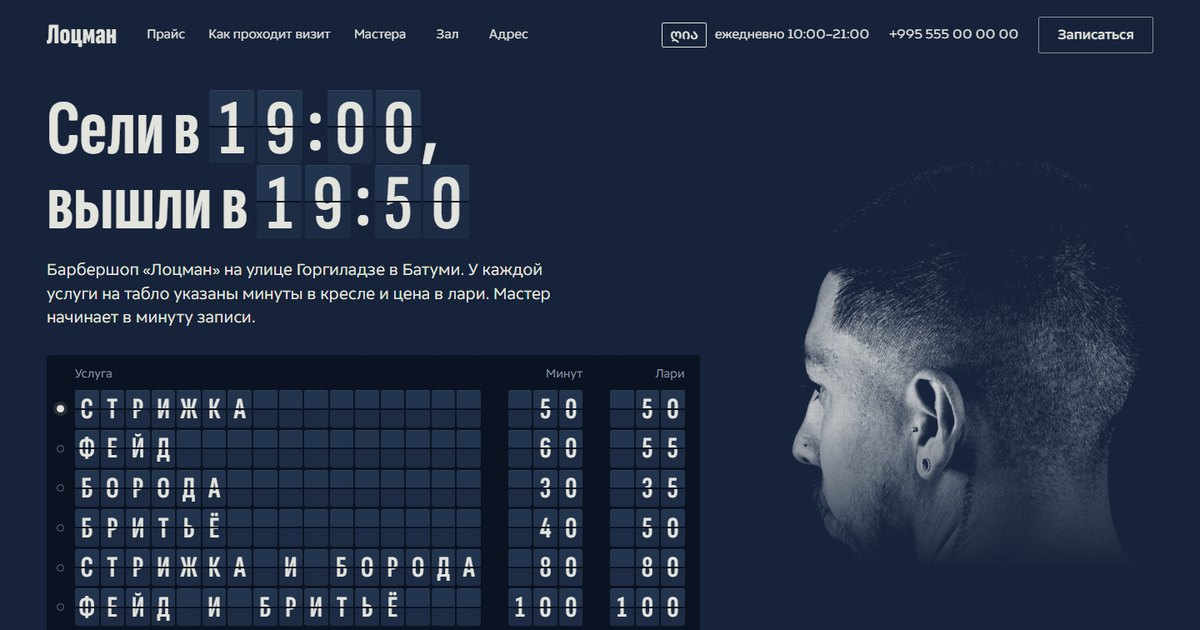
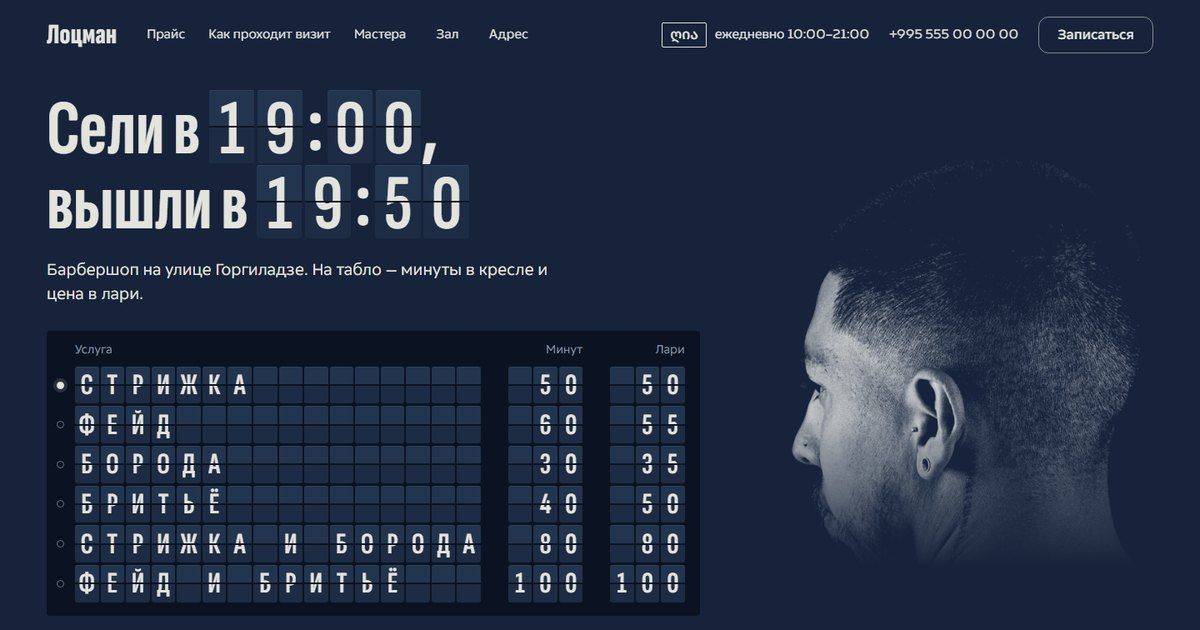
Меньше текста, компактные прайс и мастера, мягкие скругления

Changed region(s): [[0.0308, 0.4222, 0.5858, 1.0]]

diff --git a/index.html b/index.html
@@ -49,7 +49,7 @@
   --gut:clamp(16px,3.9vw,56px);
   --f-disp:"Sofia Sans Extra Condensed","Arial Narrow",sans-serif;
   --f-text:"Finlandica Text",system-ui,sans-serif;
-  --r-flap:3px; --r-ctl:2px;
+  --r-flap:3px; --r-ctl:12px;
 }
 *,*::before,*::after{box-sizing:border-box}
 html{-webkit-text-size-adjust:100%}
@@ -202,9 +202,10 @@ h2 .ln{display:block}
 .axis-scale span:last-child{transform:translateX(-100%)}
 .stills{display:grid;grid-template-columns:repeat(12,minmax(0,1fr));column-gap:24px;align-items:end;margin-top:96px}
 .stills figure{margin:0}
-.st-a{grid-column:1/5}
-.st-b{grid-column:5/8;max-width:260px}
-.stills .stock{grid-column:9/13;color:var(--steel);max-width:26em;margin-bottom:34px}
+/* после того как убрали подпись про фотобанк, пара кадров разъехалась по левому краю —
+   раздвигаем её шире, иначе справа остаётся пустая треть экрана */
+.st-a{grid-column:1/7}
+.st-b{grid-column:7/11;max-width:320px}
 .ph{position:relative}
 .ph img{width:100%;height:100%;object-fit:cover}
 .r45{aspect-ratio:4/5}
@@ -216,13 +217,13 @@ h2 .ln{display:block}
 .m-head{display:grid;grid-template-columns:repeat(12,minmax(0,1fr));column-gap:24px;align-items:end}
 .m-head h2{grid-column:1/7}
 .m-head p{grid-column:7/13;color:var(--graphite);max-width:34em;margin-bottom:6px}
-.m-list{list-style:none;margin:72px 0 0;padding:0;border-bottom:1px solid var(--rule-l)}
-.m{display:grid;grid-template-columns:repeat(12,minmax(0,1fr));column-gap:24px;align-items:baseline;padding:34px 0 38px;border-top:1px solid var(--rule-l)}
-.m-name{grid-column:1/5;font:700 clamp(64px,7.4vw,116px)/.86 var(--f-disp);margin:0;letter-spacing:-.01em}
-.m-lvl{grid-column:5/7;font-weight:600;font-size:16px}
-.m-best{grid-column:7/11;font-size:17px;line-height:1.5;max-width:28em}
-.m-lang{grid-column:11/13;font-size:15px;line-height:1.45}
-.m-k{display:block;font-size:14px;color:var(--graphite);margin-bottom:4px}
+.m-list{list-style:none;margin:36px 0 0;padding:0;border-bottom:1px solid var(--rule-l)}
+.m{display:grid;grid-template-columns:repeat(12,minmax(0,1fr));column-gap:24px;row-gap:2px;
+  align-items:baseline;padding:16px 0 18px;border-top:1px solid var(--rule-l)}
+.m-name{grid-column:1/4;font:700 28px/1.1 var(--f-disp);letter-spacing:-.01em}
+.m-lvl{grid-column:4/6;font-size:15px;color:var(--graphite)}
+.m-best{grid-column:6/11;font-size:16px;line-height:1.4}
+.m-lang{grid-column:11/13;font-size:14px;color:var(--graphite);text-align:right}
 
 /* ---------- зал ---------- */
 .space{display:grid;grid-template-columns:repeat(12,minmax(0,1fr));column-gap:24px;align-items:center}
@@ -343,11 +344,11 @@ html:not(.js) .mbar{display:none}
   .stills .stock{grid-column:1/-1;margin:28px 0 0}
   .m-head h2{grid-column:1/-1}
   .m-head p{grid-column:1/10;margin-top:22px}
-  .m{grid-template-columns:minmax(0,5fr) minmax(0,7fr);row-gap:10px}
-  .m-name{grid-column:1;grid-row:1/4;font-size:clamp(56px,9vw,84px)}
-  .m-lvl{grid-column:2;grid-row:1}
+  .m{grid-template-columns:minmax(0,4fr) minmax(0,8fr);row-gap:4px}
+  .m-name{grid-column:1;grid-row:1/4;font-size:26px}
+  .m-lvl{grid-column:2;grid-row:1;text-align:left}
   .m-best{grid-column:2;grid-row:2}
-  .m-lang{grid-column:2;grid-row:3}
+  .m-lang{grid-column:2;grid-row:3;text-align:left}
   .z-photo{grid-column:1/7;align-self:start}
   .z-text{grid-column:7/13;padding-left:8px}
   .z-lead{font-size:17px}
@@ -442,11 +443,11 @@ html:not(.js) .mbar{display:none}
 
   .m-head p{grid-column:1/-1;font-size:16px;margin-top:18px}
   .m-list{margin-top:40px}
-  .m{display:block;padding:26px 0 30px}
-  .m-name{font-size:62px}
-  .m-lvl{margin-top:12px}
-  .m-best{margin-top:12px;font-size:16px}
-  .m-lang{margin-top:12px}
+  .m{display:grid;grid-template-columns:minmax(0,1fr) auto;row-gap:3px;padding:14px 0 16px}
+  .m-name{grid-column:1;grid-row:1;font-size:24px}
+  .m-lvl{grid-column:2;grid-row:1;text-align:right;align-self:baseline}
+  .m-best{grid-column:1/-1;grid-row:2;font-size:15px}
+  .m-lang{grid-column:1/-1;grid-row:3;text-align:left;font-size:13px}
 
   .space{display:block}
   .z-photo{margin:-72px -16px 0}
@@ -513,7 +514,7 @@ html:not(.js) .mbar{display:none}
     <a href="#adres">Адрес</a>
   </nav>
   <div class="top-right">
-    <span class="plate plate-top"><b lang="ka">ღია</b><span class="vh">(по-грузински «открыто»)</span> ежедневно 10:00–21:00</span>
+    <span class="plate plate-top"><b lang="ka">ღია</b> ежедневно 10:00–21:00</span>
     <a class="tel" href="tel:+995555000000">+995 555 00 00 00</a>
     <a class="btn btn-line" href="#zapis">Записаться</a>
   </div>
@@ -539,7 +540,7 @@ html:not(.js) .mbar{display:none}
         <span class="ln">Сели в <span class="clock" data-v="19:00"><span class="txt">19:00</span></span>,</span>
         <span class="ln">вышли в <span class="clock" data-v="19:50"><span class="txt">19:50</span></span></span>
       </h1>
-      <p class="lead">Барбершоп «Лоцман» на улице Горгиладзе в Батуми. У каждой услуги на табло указаны минуты в кресле и цена в лари. Мастер начинает в минуту записи.</p>
+      <p class="lead">Барбершоп на улице Горгиладзе. На табло — минуты в кресле и цена в лари.</p>
 
       <div class="board" id="tablo">
         <div class="board-in">
@@ -577,9 +578,9 @@ html:not(.js) .mbar{display:none}
             <button type="button" aria-pressed="false" data-level="2">Старший барбер</button>
           </div>
           <a class="btn btn-fill cta" id="cta" href="#zapis">Записаться на стрижку</a>
-          <span class="plate plate-foot"><b lang="ka">ღია</b><span class="vh">(по-грузински «открыто»)</span> ежедневно 10:00–21:00</span>
+          <span class="plate plate-foot"><b lang="ka">ღია</b> ежедневно 10:00–21:00</span>
         </div>
-        <p class="hint"><span class="hint-d">Нажмите на строку: время выхода в заголовке и кнопка записи пересчитаются.</span><span class="hint-m">Нажмите на строку: время выхода в заголовке и панель внизу пересчитаются.</span></p>
+        <p class="hint"><span class="hint-d">Нажмите на строку — время выхода пересчитается.</span><span class="hint-m">Нажмите на строку — время выхода пересчитается.</span></p>
         <p class="vh" id="live" aria-live="polite"></p>
       </div>
     </div>
@@ -589,9 +590,7 @@ html:not(.js) .mbar{display:none}
     <div class="g12">
       <div class="price-side">
         <h2 id="price-h">Весь прайс</h2>
-        <p>Цена зависит от уровня мастера. Длина и густота волос на неё не влияют.</p>
-        <p>Минуты считаются от кресла до выхода: мытьё и укладка уже внутри.</p>
-        <p>Оплата картой или наличными в лари.</p>
+        <p>Минуты — от кресла до выхода, мытьё и укладка уже внутри.</p>
       </div>
       <div class="price-main">
         <table class="plist">
@@ -602,30 +601,29 @@ html:not(.js) .mbar{display:none}
           </thead>
           <tbody>
             <tr class="grp"><th scope="rowgroup" colspan="4">Стрижки</th></tr>
-            <tr><th scope="row"><span class="s-n">Стрижка</span><span class="s-d">Машинка и ножницы, мытьё, укладка</span><span class="s-m">50 минут</span></th><td class="c-min">50</td><td>50</td><td>60</td></tr>
-            <tr><th scope="row"><span class="s-n">Фейд</span><span class="s-d">Переход от 0,5 мм без ступенек, верх ножницами</span><span class="s-m">60 минут</span></th><td class="c-min">60</td><td>55</td><td>65</td></tr>
-            <tr><th scope="row"><span class="s-n">Стрижка под насадку</span><span class="s-d">Одна длина машинкой, окантовка</span><span class="s-m">30 минут</span></th><td class="c-min">30</td><td>30</td><td>35</td></tr>
-            <tr><th scope="row"><span class="s-n">Детская стрижка</span><span class="s-d">До 12 лет</span><span class="s-m">40 минут</span></th><td class="c-min">40</td><td>35</td><td>40</td></tr>
-            <tr><th scope="row"><span class="s-n">Отец и сын</span><span class="s-d">Две стрижки подряд у одного мастера</span><span class="s-m">90 минут</span></th><td class="c-min">90</td><td>70</td><td>85</td></tr>
+            <tr><th scope="row"><span class="s-n">Стрижка</span><span class="s-m">50 минут</span></th><td class="c-min">50</td><td>50</td><td>60</td></tr>
+            <tr><th scope="row"><span class="s-n">Фейд</span><span class="s-m">60 минут</span></th><td class="c-min">60</td><td>55</td><td>65</td></tr>
+            <tr><th scope="row"><span class="s-n">Стрижка под насадку</span><span class="s-m">30 минут</span></th><td class="c-min">30</td><td>30</td><td>35</td></tr>
+            <tr><th scope="row"><span class="s-n">Детская стрижка</span><span class="s-m">40 минут</span></th><td class="c-min">40</td><td>35</td><td>40</td></tr>
+            <tr><th scope="row"><span class="s-n">Отец и сын</span><span class="s-m">90 минут</span></th><td class="c-min">90</td><td>70</td><td>85</td></tr>
           </tbody>
           <tbody>
             <tr class="grp"><th scope="rowgroup" colspan="4">Борода и бритьё</th></tr>
-            <tr><th scope="row"><span class="s-n">Борода</span><span class="s-d">Форма по линии челюсти, окантовка бритвой, масло</span><span class="s-m">30 минут</span></th><td class="c-min">30</td><td>35</td><td>45</td></tr>
-            <tr><th scope="row"><span class="s-n">Бритьё</span><span class="s-d">Опасная бритва, горячее и холодное полотенце</span><span class="s-m">40 минут</span></th><td class="c-min">40</td><td>50</td><td>60</td></tr>
+            <tr><th scope="row"><span class="s-n">Борода</span><span class="s-m">30 минут</span></th><td class="c-min">30</td><td>35</td><td>45</td></tr>
+            <tr><th scope="row"><span class="s-n">Бритьё</span><span class="s-m">40 минут</span></th><td class="c-min">40</td><td>50</td><td>60</td></tr>
           </tbody>
           <tbody>
             <tr class="grp"><th scope="rowgroup" colspan="4">Седина</th></tr>
-            <tr><th scope="row"><span class="s-n">Камуфляж седины, голова</span><span class="s-d">Часть седины остаётся, цвет не выглядит крашеным</span><span class="s-m">40 минут</span></th><td class="c-min">40</td><td>45</td><td>55</td></tr>
-            <tr><th scope="row"><span class="s-n">Камуфляж седины, борода</span><span class="s-d">Тон подбирается к щетине, а не к волосам на голове</span><span class="s-m">30 минут</span></th><td class="c-min">30</td><td>35</td><td>45</td></tr>
+            <tr><th scope="row"><span class="s-n">Камуфляж седины, голова</span><span class="s-m">40 минут</span></th><td class="c-min">40</td><td>45</td><td>55</td></tr>
+            <tr><th scope="row"><span class="s-n">Камуфляж седины, борода</span><span class="s-m">30 минут</span></th><td class="c-min">30</td><td>35</td><td>45</td></tr>
           </tbody>
           <tbody>
             <tr class="grp"><th scope="rowgroup" colspan="4">Вместе</th></tr>
-            <tr><th scope="row"><span class="s-n">Стрижка и борода</span><span class="s-d">Одна запись, один мастер</span><span class="s-m">80 минут</span></th><td class="c-min">80</td><td>80</td><td>95</td></tr>
-            <tr><th scope="row"><span class="s-n">Фейд и бритьё</span><span class="s-d">Самая длинная запись в прайсе</span><span class="s-m">100 минут</span></th><td class="c-min">100</td><td>100</td><td>115</td></tr>
+            <tr><th scope="row"><span class="s-n">Стрижка и борода</span><span class="s-m">80 минут</span></th><td class="c-min">80</td><td>80</td><td>95</td></tr>
+            <tr><th scope="row"><span class="s-n">Фейд и бритьё</span><span class="s-m">100 минут</span></th><td class="c-min">100</td><td>100</td><td>115</td></tr>
           </tbody>
         </table>
         <div class="price-foot">
-          <p>Старший барбер берёт сложные случаи: фейд от 0,5 мм, густую бороду, седину. Поэтому у него на 10–15 лари дороже.</p>
           <a class="btn btn-dark" href="#zapis">Записаться</a>
         </div>
       </div>
@@ -635,15 +633,15 @@ html:not(.js) .mbar{display:none}
   <section class="visit sec" id="vizit" aria-labelledby="visit-h">
     <div class="visit-head">
       <h2 id="visit-h"><span class="ln">Стрижка на 19:00</span> <span class="ln">по минутам</span></h2>
-      <p>От двери до выхода 55 минут, в кресле ровно 50. У других услуг порядок тот же, меняется только средний шаг.</p>
+      <p>От двери до выхода 55 минут, в кресле ровно 50.</p>
     </div>
 
     <ol class="gantt">
-      <li style="--s:0;--e:9.09"><span class="g-t"><time>18:55</time></span><span class="g-n">Приходите за пять минут</span><span class="g-d">Куртку на вешалку, на стойке вода и чай. Если опаздываете больше чем на 10 минут, напишите: мастер сократит укладку или перенесёт запись.</span><span class="g-track" aria-hidden="true"><span class="g-bar"></span></span></li>
-      <li style="--s:9.09;--e:18.18"><span class="g-t"><time>19:00</time></span><span class="g-n">Разговор</span><span class="g-d">Как носите волосы, где пробор, что не получилось в прошлый раз. Длину договариваетесь в миллиметрах насадки, можно показать фото.</span><span class="g-track" aria-hidden="true"><span class="g-bar"></span></span></li>
-      <li style="--s:18.18;--e:78.18"><span class="g-t"><time>19:05</time></span><span class="g-n">Стрижка</span><span class="g-d">Бока машинкой, верх ножницами, линия роста шаветкой. В конце мастер показывает затылок во втором зеркале.</span><span class="g-track" aria-hidden="true"><span class="g-bar"></span></span></li>
-      <li style="--s:78.18;--e:96.36"><span class="g-t"><time>19:38</time></span><span class="g-n">Мытьё и укладка</span><span class="g-d">Смываем состриженные волоски, сушим феном. Мастер показывает, сколько средства брать дома, чтобы форма держалась в батумскую влажность.</span><span class="g-track" aria-hidden="true"><span class="g-bar"></span></span></li>
-      <li style="--s:96.36;--e:100"><span class="g-t"><time>19:48</time></span><span class="g-n">Оплата</span><span class="g-d">Картой или наличными в лари. Следующую запись можно поставить сразу.</span><span class="g-track" aria-hidden="true"><span class="g-bar"></span></span></li>
+      <li style="--s:0;--e:9.09"><span class="g-t"><time>18:55</time></span><span class="g-n">Приходите за пять минут</span><span class="g-d">Куртка на вешалку, вода и чай на стойке.</span><span class="g-track" aria-hidden="true"><span class="g-bar"></span></span></li>
+      <li style="--s:9.09;--e:18.18"><span class="g-t"><time>19:00</time></span><span class="g-n">Разговор</span><span class="g-d">Длину договариваете в миллиметрах насадки. Можно показать фото.</span><span class="g-track" aria-hidden="true"><span class="g-bar"></span></span></li>
+      <li style="--s:18.18;--e:78.18"><span class="g-t"><time>19:05</time></span><span class="g-n">Стрижка</span><span class="g-d">Бока машинкой, верх ножницами, линия роста шаветкой.</span><span class="g-track" aria-hidden="true"><span class="g-bar"></span></span></li>
+      <li style="--s:78.18;--e:96.36"><span class="g-t"><time>19:38</time></span><span class="g-n">Мытьё и укладка</span><span class="g-d">Смываем волоски, сушим феном, показываем укладку.</span><span class="g-track" aria-hidden="true"><span class="g-bar"></span></span></li>
+      <li style="--s:96.36;--e:100"><span class="g-t"><time>19:48</time></span><span class="g-n">Оплата</span><span class="g-d">Картой или наличными. Следующую запись ставим сразу.</span><span class="g-track" aria-hidden="true"><span class="g-bar"></span></span></li>
     </ol>
     <div class="axis" aria-hidden="true"><span class="axis-scale"><span style="left:0">18:55</span><span style="left:27.27%">19:10</span><span style="left:54.55%">19:25</span><span style="left:100%">19:50, выход</span></span></div>
 
@@ -654,7 +652,6 @@ html:not(.js) .mbar{display:none}
           src="https://images.unsplash.com/photo-1657105052497-f996284ffff8?rect=0,1120,4480,5600&amp;w=900&amp;q=70&amp;auto=format"
           srcset="https://images.unsplash.com/photo-1657105052497-f996284ffff8?rect=0,1120,4480,5600&amp;w=500&amp;q=70&amp;auto=format 500w, https://images.unsplash.com/photo-1657105052497-f996284ffff8?rect=0,1120,4480,5600&amp;w=900&amp;q=70&amp;auto=format 900w"
           sizes="(max-width: 600px) 46vw, (max-width: 1023px) 40vw, 30vw"></div>
-        <figcaption><b>19:05–19:38</b>Верх ножницами после машинки</figcaption>
       </figure>
       <figure class="st-b">
         <div class="ph duo r45 p11"><img loading="lazy" decoding="async" width="700" height="1022"
@@ -662,42 +659,20 @@ html:not(.js) .mbar{display:none}
           src="https://images.pexels.com/photos/10775082/pexels-photo-10775082.jpeg?auto=compress&amp;cs=tinysrgb&amp;w=700"
           srcset="https://images.pexels.com/photos/10775082/pexels-photo-10775082.jpeg?auto=compress&amp;cs=tinysrgb&amp;w=400 400w, https://images.pexels.com/photos/10775082/pexels-photo-10775082.jpeg?auto=compress&amp;cs=tinysrgb&amp;w=700 700w"
           sizes="(max-width: 600px) 46vw, (max-width: 1023px) 32vw, 260px"></div>
-        <figcaption><b>19:30</b>Линия роста шаветкой</figcaption>
       </figure>
-      <p class="stock">Кадры из фотобанков подобраны под концепт. На сайте вашего барбершопа здесь будет своя съёмка.</p>
     </div>
   </section>
 
   <section class="paper sec" id="mastera" aria-labelledby="m-h">
     <div class="m-head">
       <h2 id="m-h">Мастера</h2>
-      <p>Старшие барберы берут сложные случаи, барберы ведут повседневные стрижки. Если не знаете, к кому записаться, опишите в заявке, что хотите, и администратор подберёт мастера.</p>
+      <p>Не знаете, к кому записаться, — напишите в заявке, что хотите.</p>
     </div>
     <ul class="m-list">
-      <li class="m">
-        <h3 class="m-name">Давид</h3>
-        <p class="m-lvl">Старший барбер</p>
-        <p class="m-best"><span class="m-k">Лучше всего</span>Фейды от 0,5 мм и жёсткие кудрявые волосы, которые топорщатся после обычной машинки.</p>
-        <p class="m-lang"><span class="m-k">Языки</span>Русский, грузинский, английский</p>
-      </li>
-      <li class="m">
-        <h3 class="m-name">Лаша</h3>
-        <p class="m-lvl">Старший барбер</p>
-        <p class="m-best"><span class="m-k">Лучше всего</span>Опасная бритва и густые бороды: форма по линии челюсти, горячие полотенца, седина в бороде.</p>
-        <p class="m-lang"><span class="m-k">Языки</span>Грузинский, русский, турецкий</p>
-      </li>
-      <li class="m">
-        <h3 class="m-name">Артём</h3>
-        <p class="m-lvl">Барбер</p>
-        <p class="m-best"><span class="m-k">Лучше всего</span>Классика ножницами и удлинённый верх. Стрижёт детей, в том числе тех, кто пришёл впервые и боится машинки.</p>
-        <p class="m-lang"><span class="m-k">Языки</span>Русский, английский</p>
-      </li>
-      <li class="m">
-        <h3 class="m-name">Нико</h3>
-        <p class="m-lvl">Барбер</p>
-        <p class="m-best"><span class="m-k">Лучше всего</span>Короткие стрижки под насадку и камуфляж седины на голове.</p>
-        <p class="m-lang"><span class="m-k">Языки</span>Грузинский, русский, английский</p>
-      </li>
+      <li class="m"><span class="m-name">Давид</span><span class="m-lvl">Старший барбер</span><span class="m-best">Фейды от 0,5 мм, жёсткие кудрявые волосы</span><span class="m-lang">рус · груз · англ</span></li>
+      <li class="m"><span class="m-name">Лаша</span><span class="m-lvl">Старший барбер</span><span class="m-best">Опасная бритва, густые бороды, седина</span><span class="m-lang">груз · рус · тур</span></li>
+      <li class="m"><span class="m-name">Артём</span><span class="m-lvl">Барбер</span><span class="m-best">Классика ножницами, удлинённый верх, дети</span><span class="m-lang">рус · англ</span></li>
+      <li class="m"><span class="m-name">Нико</span><span class="m-lvl">Барбер</span><span class="m-best">Короткие стрижки под насадку, камуфляж седины</span><span class="m-lang">груз · рус · англ</span></li>
     </ul>
   </section>
 
@@ -711,14 +686,13 @@ html:not(.js) .mbar{display:none}
     </figure>
     <div class="z-text">
       <h2 id="z-h">Зал</h2>
-      <p class="z-lead">Четыре кресла у высоких окон. Мойка стоит отдельно, за перегородкой, поэтому фен у соседнего кресла не мешает разговору с мастером.</p>
+      <p class="z-lead">Четыре кресла у высоких окон. Мойка за перегородкой — фен не мешает разговору.</p>
       <dl class="z-facts">
-        <div><dt>Воздух</dt><dd>Кондиционер и осушитель. В Батуми влажно, а укладку проверяем в сухом зале, чтобы знать, как она поведёт себя на улице.</dd></div>
-        <div><dt>Бритьё</dt><dd>Кожу распариваем паром и горячим полотенцем. Лезвие в шаветке меняем при вас перед каждым клиентом.</dd></div>
-        <div><dt>Пока ждёте</dt><dd>Вода без газа и чёрный чай из Чакви.</dd></div>
-        <div><dt>С ребёнком</dt><dd>Подушка на кресло для детей от трёх лет и тихая машинка.</dd></div>
+        <div><dt>Воздух</dt><dd>Кондиционер и осушитель: укладку проверяем в сухом зале.</dd></div>
+        <div><dt>Бритьё</dt><dd>Пар и горячее полотенце. Лезвие меняем при вас.</dd></div>
+        <div><dt>Пока ждёте</dt><dd>Вода и чай из Чакви.</dd></div>
+        <div><dt>С ребёнком</dt><dd>Подушка на кресло и тихая машинка.</dd></div>
       </dl>
-      <p class="stock">Фото из фотобанка, подобрано под концепт.</p>
     </div>
   </section>
 
@@ -727,7 +701,7 @@ html:not(.js) .mbar{display:none}
       <div class="b-side">
         <h2 id="b-h">Запись</h2>
         <p class="b-sel">Вы выбрали: <b id="bSel">стрижка у барбера, 50 минут, 50 лари</b></p>
-        <p class="b-note">Оставьте имя и телефон. Администратор перезвонит или напишет в WhatsApp и подтвердит время. Заявки после 21:00 разбираем утром.</p>
+        <p class="b-note">Оставьте имя и телефон — подтвердим время в WhatsApp.</p>
         <p class="b-tel">Или позвоните: <a href="tel:+995555000000">+995 555 00 00 00</a></p>
       </div>
 
@@ -771,7 +745,7 @@ html:not(.js) .mbar{display:none}
         </div>
         <noscript><p class="fld-wide">Без JavaScript форма не отправляется. Позвоните: +995 555 00 00 00.</p></noscript>
         <div class="b-done" id="bDone" tabindex="-1" role="status" hidden>
-          <p><strong>Это демо-сайт.</strong> Хотите такой же для своего барбершопа? <a href="https://t.me/open_sites">→ t.me/open_sites</a></p>
+          <p><strong>Заявка принята.</strong> Администратор подтвердит время в WhatsApp.</p>
         </div>
       </form>
     </div>
@@ -793,13 +767,13 @@ html:not(.js) .mbar{display:none}
     </figure>
     <div class="w-in">
       <div class="w-main">
-        <p class="w-sign"><b lang="ka">ლოცმანი</b><span>«Лоцман» по-грузински, так написано над входом</span></p>
+        <p class="w-sign"><b lang="ka">ლოცმანი</b></p>
         <h2 id="w-h"><span class="ln">Улица Горгиладзе,</span> <span class="ln">Батуми</span></h2>
       </div>
       <div class="w-side">
         <dl class="w-dl">
           <div><dt>Адрес</dt><dd>ул. Горгиладзе, Батуми</dd></div>
-          <div><dt>Часы</dt><dd>Ежедневно 10:00–21:00. Последняя стрижка начинается в 20:10.</dd></div>
+          <div><dt>Часы</dt><dd>Ежедневно 10:00–21:00</dd></div>
           <div><dt>Телефон</dt><dd><a href="tel:+995555000000">+995 555 00 00 00</a></dd></div>
         </dl>
         <div class="w-btns">
@@ -813,8 +787,6 @@ html:not(.js) .mbar{display:none}
 
 <footer class="foot">
   <p class="foot-brand">Лоцман</p>
-  <p class="demo">Демонстрационная работа студии <span class="nw">open-sites.io</span>. Бизнес вымышленный, цены — ориентир по рынку Батуми.</p>
-  <p class="credits">Фото: Unsplash и Pexels, свободные лицензии. Люди на фото не мастера и не клиенты. Сайт для своего барбершопа: <a href="https://t.me/open_sites">t.me/open_sites</a></p>
 </footer>
 
 <aside class="mbar away" id="mbar" aria-label="Быстрая запись">
